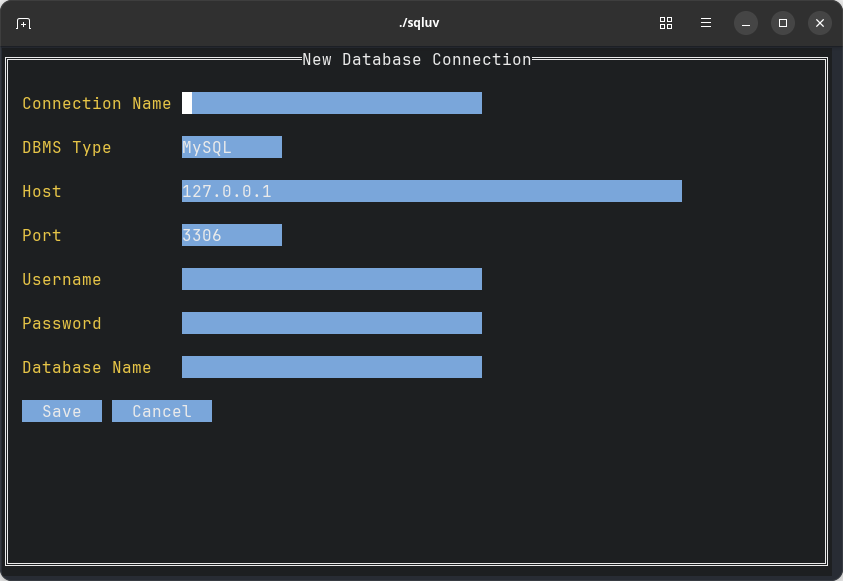
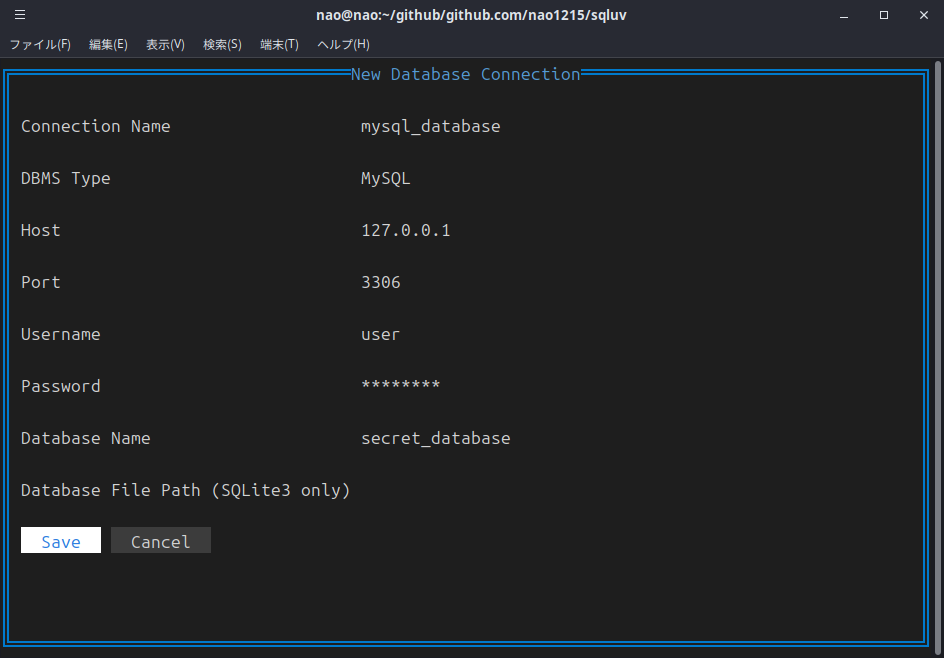
fix: color scheme

diff --git a/tui/connection_modal.go b/tui/connection_modal.go
@@ -4,6 +4,7 @@ import (
 	"fmt"
 	"strconv"
 
+	"github.com/gdamore/tcell/v2"
 	"github.com/nao1215/sqluv/config"
 	"github.com/rivo/tview"
 )
@@ -58,6 +59,7 @@ func newConnectionModal(app *tview.Application, theme *Theme, onClose func(conn 
 			cm.app.Stop()
 		}
 	})
+	cm.applyTheme(theme)
 	return cm
 }
 
@@ -65,19 +67,19 @@ func newConnectionModal(app *tview.Application, theme *Theme, onClose func(conn 
 func (cm *connectionModal) showNewConnectionForm() {
 	form := tview.NewForm()
 
-	form.AddInputField("Connection Name", "", 30, nil, nil)
+	form.AddInputField("Connection Name", "", 0, nil, nil)
 	dbmsTypes := []string{string(config.MySQL), string(config.PostgreSQL), string(config.SQLite3), string(config.SQLServer)}
 
 	// First add all form fields without the callback
 	form.AddDropDown("DBMS Type", dbmsTypes, 0, nil)
-	form.AddInputField("Host", "127.0.0.1", 50, nil, nil)
-	form.AddInputField("Port", "3306", 10, func(_ string, lastChar rune) bool {
+	form.AddInputField("Host", "127.0.0.1", 0, nil, nil)
+	form.AddInputField("Port", "3306", 0, func(_ string, lastChar rune) bool {
 		return '0' <= lastChar && lastChar <= '9'
 	}, nil)
-	form.AddInputField("Username", "", 30, nil, nil)
-	form.AddPasswordField("Password", "", 30, '*', nil)
-	form.AddInputField("Database Name", "", 30, nil, nil)
-	form.AddInputField("Database File Path (SQLite3 only)", "", 50, nil, nil)
+	form.AddInputField("Username", "", 0, nil, nil)
+	form.AddPasswordField("Password", "", 0, '*', nil)
+	form.AddInputField("Database Name", "", 0, nil, nil)
+	form.AddInputField("Database File Path (SQLite3 only)", "", 0, nil, nil)
 
 	// Now that all fields exist, we can set up the callback for the dropdown
 	dbmsDropdown := form.GetFormItem(1).(*tview.DropDown)
@@ -205,6 +207,25 @@ func (cm *connectionModal) showNewConnectionForm() {
 	})
 
 	form.SetBorder(true).SetTitle("New Database Connection")
+
+	// Retrieve colors from the current theme (via config.ColorConfig)
+	colors := cm.theme.GetColors()
+	form.SetBackgroundColor(colors.Background)
+	form.SetBorderColor(colors.Border)
+	form.SetTitleColor(colors.Header)
+	form.SetFieldTextColor(colors.Foreground)
+	form.SetFieldBackgroundColor(colors.Background)
+	form.SetLabelColor(colors.Foreground)
+	form.SetBorderStyle(tcell.StyleDefault.
+		Background(colors.Background).
+		Foreground(colors.BorderFocus))
+	form.SetButtonStyle(tcell.StyleDefault.
+		Background(colors.Button).
+		Foreground(colors.ButtonText))
+	form.SetFieldStyle(tcell.StyleDefault.
+		Background(colors.Background).
+		Foreground(colors.Foreground))
+
 	cm.app.SetRoot(form, true)
 }
 
@@ -221,10 +242,10 @@ func (cm *connectionModal) showConnectionsList() {
 		cm.showError("No saved connections found")
 		return
 	}
-
 	// Create a list to display connections
+	colors := cm.theme.GetColors()
 	list := tview.NewList()
-	list.SetTitle("Saved Connections").SetBorder(true)
+	list.SetTitle("Saved Connections").SetBackgroundColor(colors.Background)
 
 	// Add connections to the list
 	for i, conn := range connections {
@@ -251,6 +272,23 @@ func (cm *connectionModal) showConnectionsList() {
 	list.AddItem("Back", "Return to connection options", '*', func() {
 		cm.app.SetRoot(cm.Modal, true)
 	})
+
+	list.SetBorder(true)
+	list.SetTitleColor(colors.Header)
+	list.SetBorderStyle(tcell.StyleDefault.
+		Background(colors.Border).
+		Foreground(colors.BorderFocus))
+	list.SetBackgroundColor(colors.Background)
+	list.SetMainTextStyle(tcell.StyleDefault.
+		Background(colors.Background).
+		Foreground(colors.Foreground))
+	list.SetSecondaryTextStyle(tcell.StyleDefault.
+		Background(colors.Background).
+		Foreground(colors.ButtonText))
+	list.SetSelectedBackgroundColor(colors.Selection)
+	list.SetShortcutStyle(tcell.StyleDefault.
+		Background(colors.Background).
+		Foreground(colors.Foreground))
 
 	// Show the list
 	cm.app.SetRoot(list, true)
@@ -282,8 +320,19 @@ func (cm *connectionModal) showError(message string) {
 func (cm *connectionModal) applyTheme(theme *Theme) {
 	colors := theme.GetColors()
 
+	cm.Modal.SetBorder(true).SetBorderColor(colors.Border)
 	cm.Modal.SetBackgroundColor(colors.Background)
 	cm.Modal.SetTextColor(colors.Foreground)
 	cm.Modal.SetButtonBackgroundColor(colors.Button)
 	cm.Modal.SetButtonTextColor(colors.ButtonText)
+	cm.Modal.SetBorderStyle(tcell.StyleDefault.
+		Background(colors.Background).
+		Foreground(colors.BorderFocus))
+	cm.Modal.SetButtonActivatedStyle(tcell.StyleDefault.
+		Background(colors.ButtonFocus).
+		Foreground(colors.ButtonTextFocus))
+	cm.Modal.SetButtonStyle(tcell.StyleDefault.
+		Background(colors.Button).
+		Foreground(colors.ButtonText))
+
 }

diff --git a/tui/theme.go b/tui/theme.go
@@ -97,7 +97,18 @@ func (t *Theme) ShowColorSchemeSelector(onClose func()) {
 
 			// Get colors for styling
 			colors := t.GetColors()
-			button.SetBackgroundColor(colors.Button)
+			button.SetStyle(tcell.StyleDefault.
+				Background(colors.Button).
+				Foreground(colors.ButtonText))
+			button.SetActivatedStyle(tcell.StyleDefault.
+				Background(colors.ButtonFocus).
+				Foreground(colors.ButtonTextFocus))
+			button.SetBorderStyle(tcell.StyleDefault.
+				Background(colors.Button).
+				Foreground(colors.ButtonText))
+			button.SetDisabledStyle(tcell.StyleDefault.
+				Background(colors.Button).
+				Foreground(colors.ButtonText))
 			button.SetLabelColor(colors.ButtonText)
 
 			// Use closure to capture the correct scheme name
@@ -134,7 +145,18 @@ func (t *Theme) ShowColorSchemeSelector(onClose func()) {
 
 	// Style the cancel button
 	colors := t.GetColors()
-	cancelButton.SetBackgroundColor(colors.Button)
+	cancelButton.SetStyle(tcell.StyleDefault.
+		Background(colors.Button).
+		Foreground(colors.ButtonText))
+	cancelButton.SetActivatedStyle(tcell.StyleDefault.
+		Background(colors.ButtonFocus).
+		Foreground(colors.ButtonTextFocus))
+	cancelButton.SetBorderStyle(tcell.StyleDefault.
+		Background(colors.Button).
+		Foreground(colors.ButtonText))
+	cancelButton.SetDisabledStyle(tcell.StyleDefault.
+		Background(colors.Button).
+		Foreground(colors.ButtonText))
 	cancelButton.SetLabelColor(colors.ButtonText)
 
 	cancelButton.SetSelectedFunc(func() {

diff --git a/di/wire_gen.go b/di/wire_gen.go
@@ -51,7 +51,7 @@ func NewSqluv(arg *config.Argument) (*tui.TUI, func(), error) {
 	usecaseHistoryCreator := interactor.NewHistoryCreator(historyCreator)
 	historyLister := persistence.NewHistoryLister(historyDB)
 	usecaseHistoryLister := interactor.NewHistoryLister(historyLister)
-	colorConfig, err := config.NewColorManager()
+	colorConfig, err := config.NewColorConfig()
 	if err != nil {
 		cleanup2()
 		cleanup()

diff --git a/tui/history_button.go b/tui/history_button.go
@@ -15,6 +15,9 @@ func newHistoryButton(theme *Theme) *historyButton {
 	button := tview.NewButton("History")
 	button.SetBorder(false)
 	button.SetTitle("Show SQL Query History")
+	button.SetBorderStyle(tcell.StyleDefault.
+		Background(theme.GetColors().Border).
+		Foreground(theme.GetColors().BorderFocus))
 
 	button.SetFocusFunc(func() {
 		button.SetBorderColor(theme.GetColors().BorderFocus)

diff --git a/config/color_scheme.go b/config/color_scheme.go
@@ -247,8 +247,8 @@ func DefaultColorSchemes() map[string]*ColorScheme {
 	}
 }
 
-// NewColorManager creates a new color manager
-func NewColorManager() (*ColorConfig, error) {
+// NewColorConfig creates a new color manager
+func NewColorConfig() (*ColorConfig, error) {
 	configDir, err := ensureConfigDir()
 	if err != nil {
 		return nil, err

diff --git a/config/wire.go b/config/wire.go
@@ -8,6 +8,6 @@ import "github.com/google/wire"
 var Set = wire.NewSet(
 	NewMemoryDB,
 	NewDBConfig,
-	NewColorManager,
+	NewColorConfig,
 	NewHistoryDB,
 )

diff --git a/README.md b/README.md
@@ -5,7 +5,7 @@ The **sqluv (sql + love)** provides a simple text user interface for multiple DB
 The sqluv is a command derived from [nao1215/sqly](https://github.com/nao1215/sqly). Its starting point is to provide a more user-friendly interface for writing SQL compared to sqly.
 
 >[!WARNING]
-> sqluv is under development. Do not execute UPDATE or DELETE in the production environment. Currently sqluv starts transactions and executes commits on a per SQL query basis. Therefore, commits may be executed at unexpected times.
+> sqluv is under development. Do not execute UPDATE or DELETE in the production environment. sqluv can not update or delete data in the local file, but it can update or delete data in the connected DBMS.
 
 ## How to install
 ### Use "go install"
